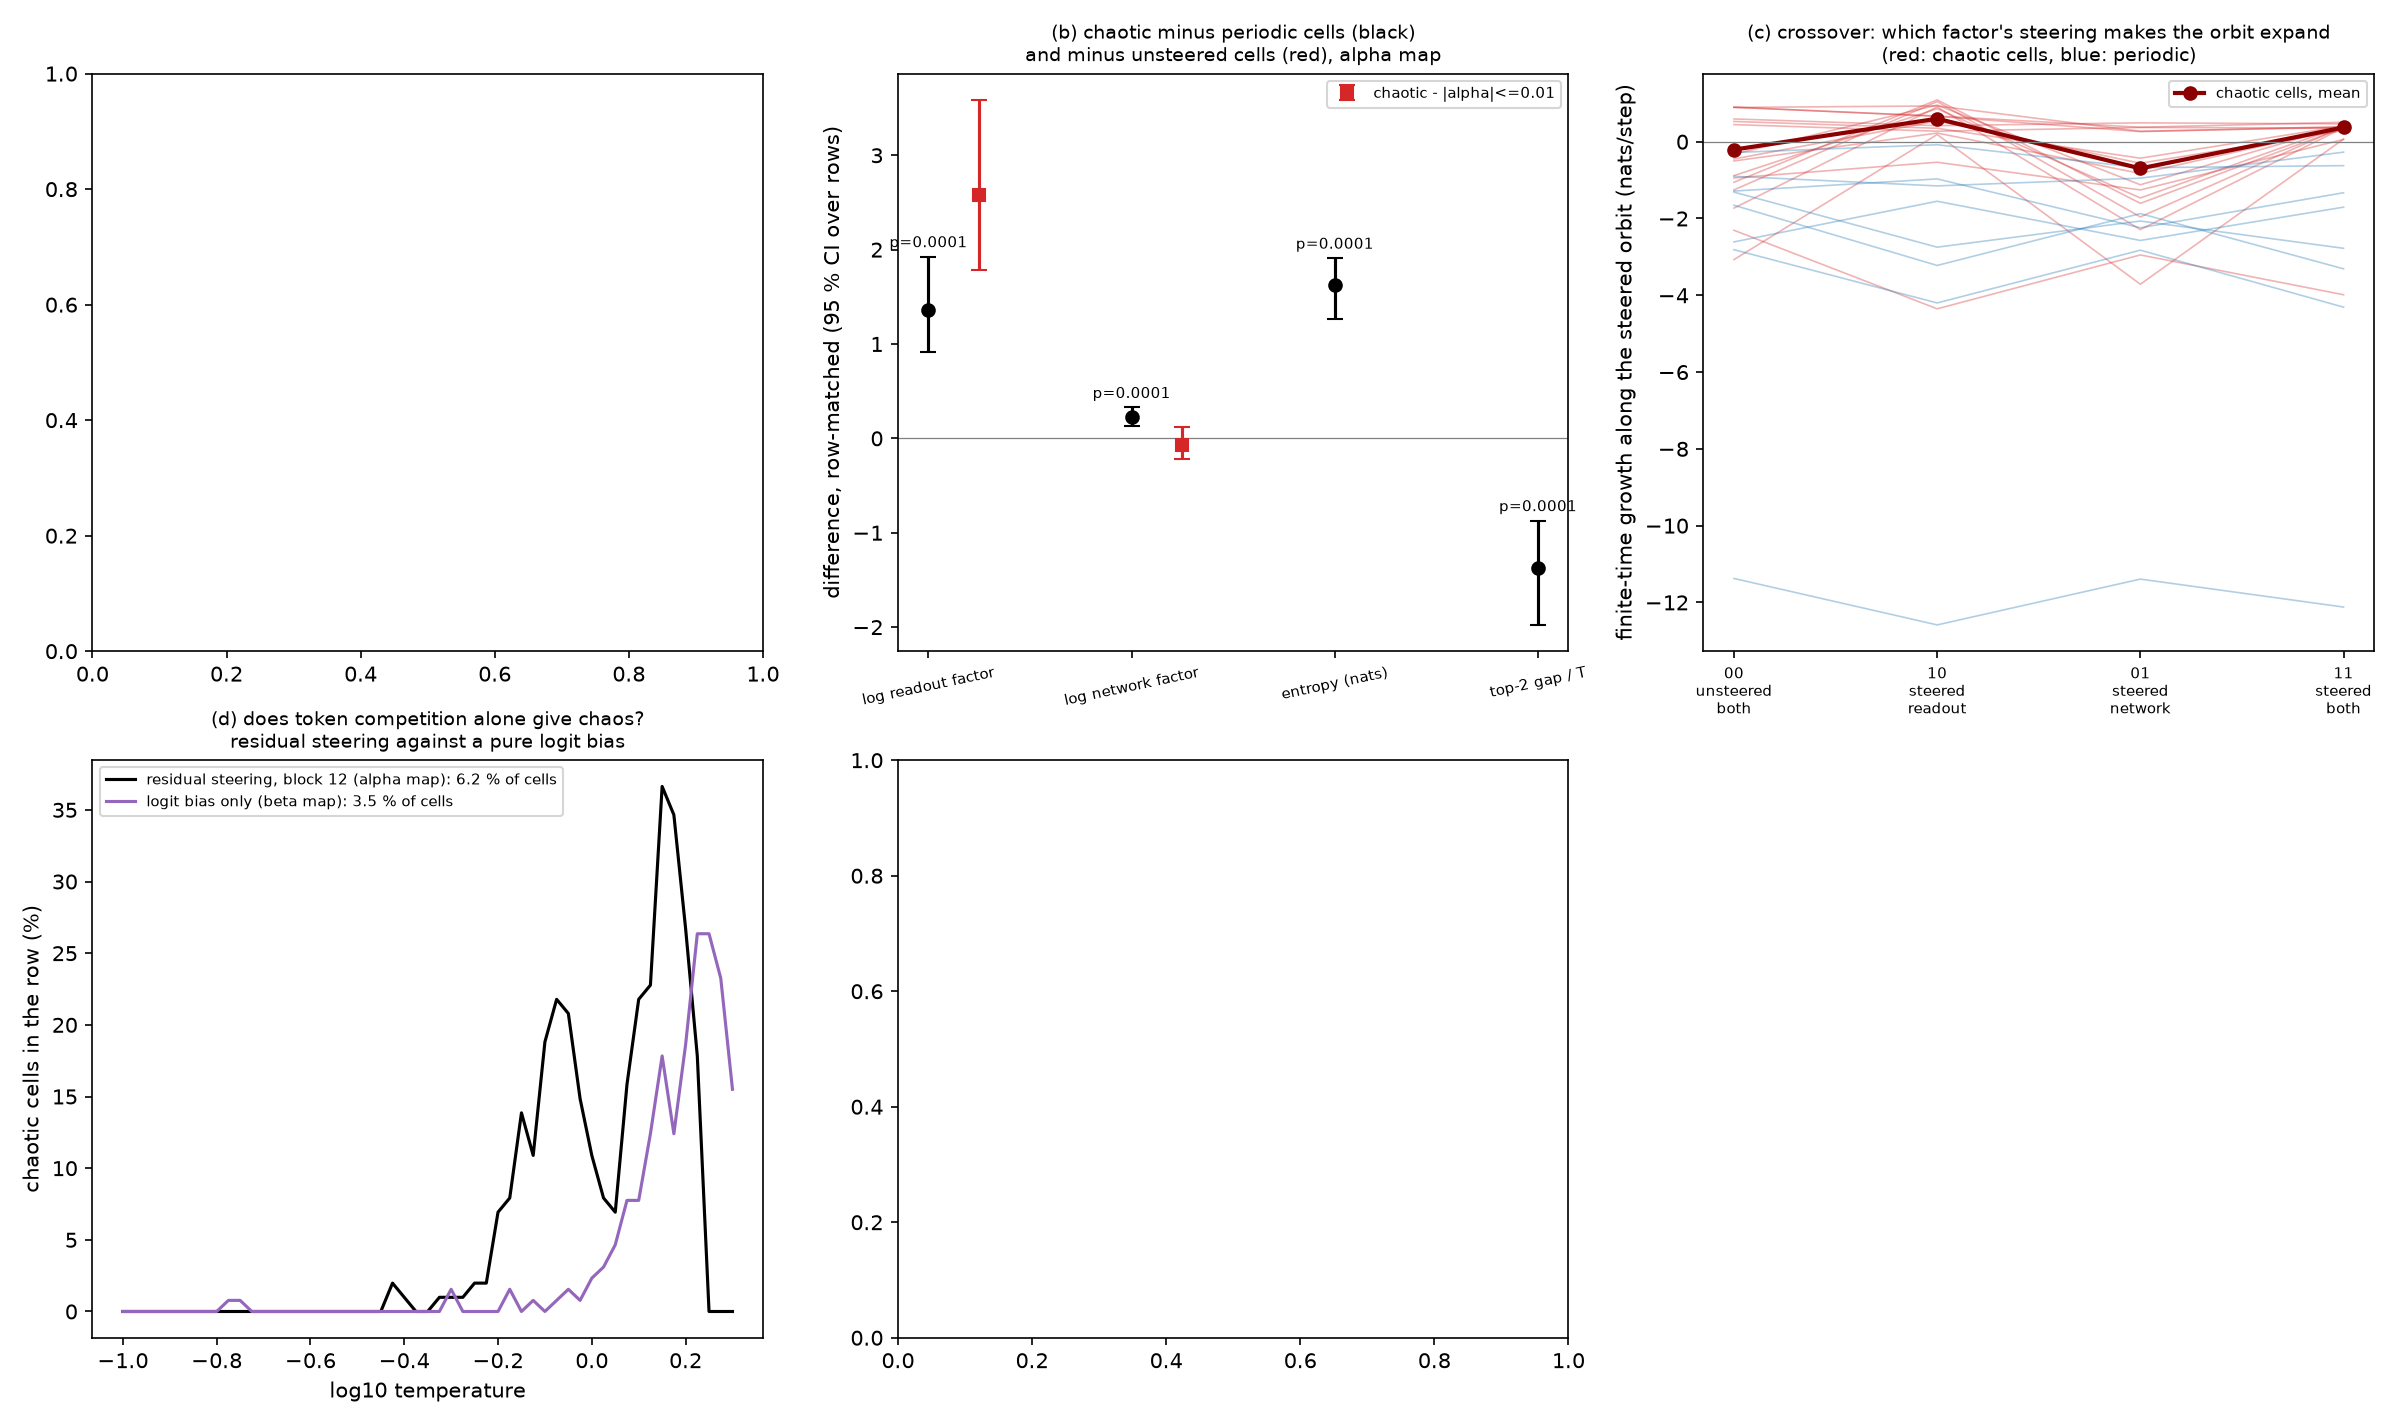
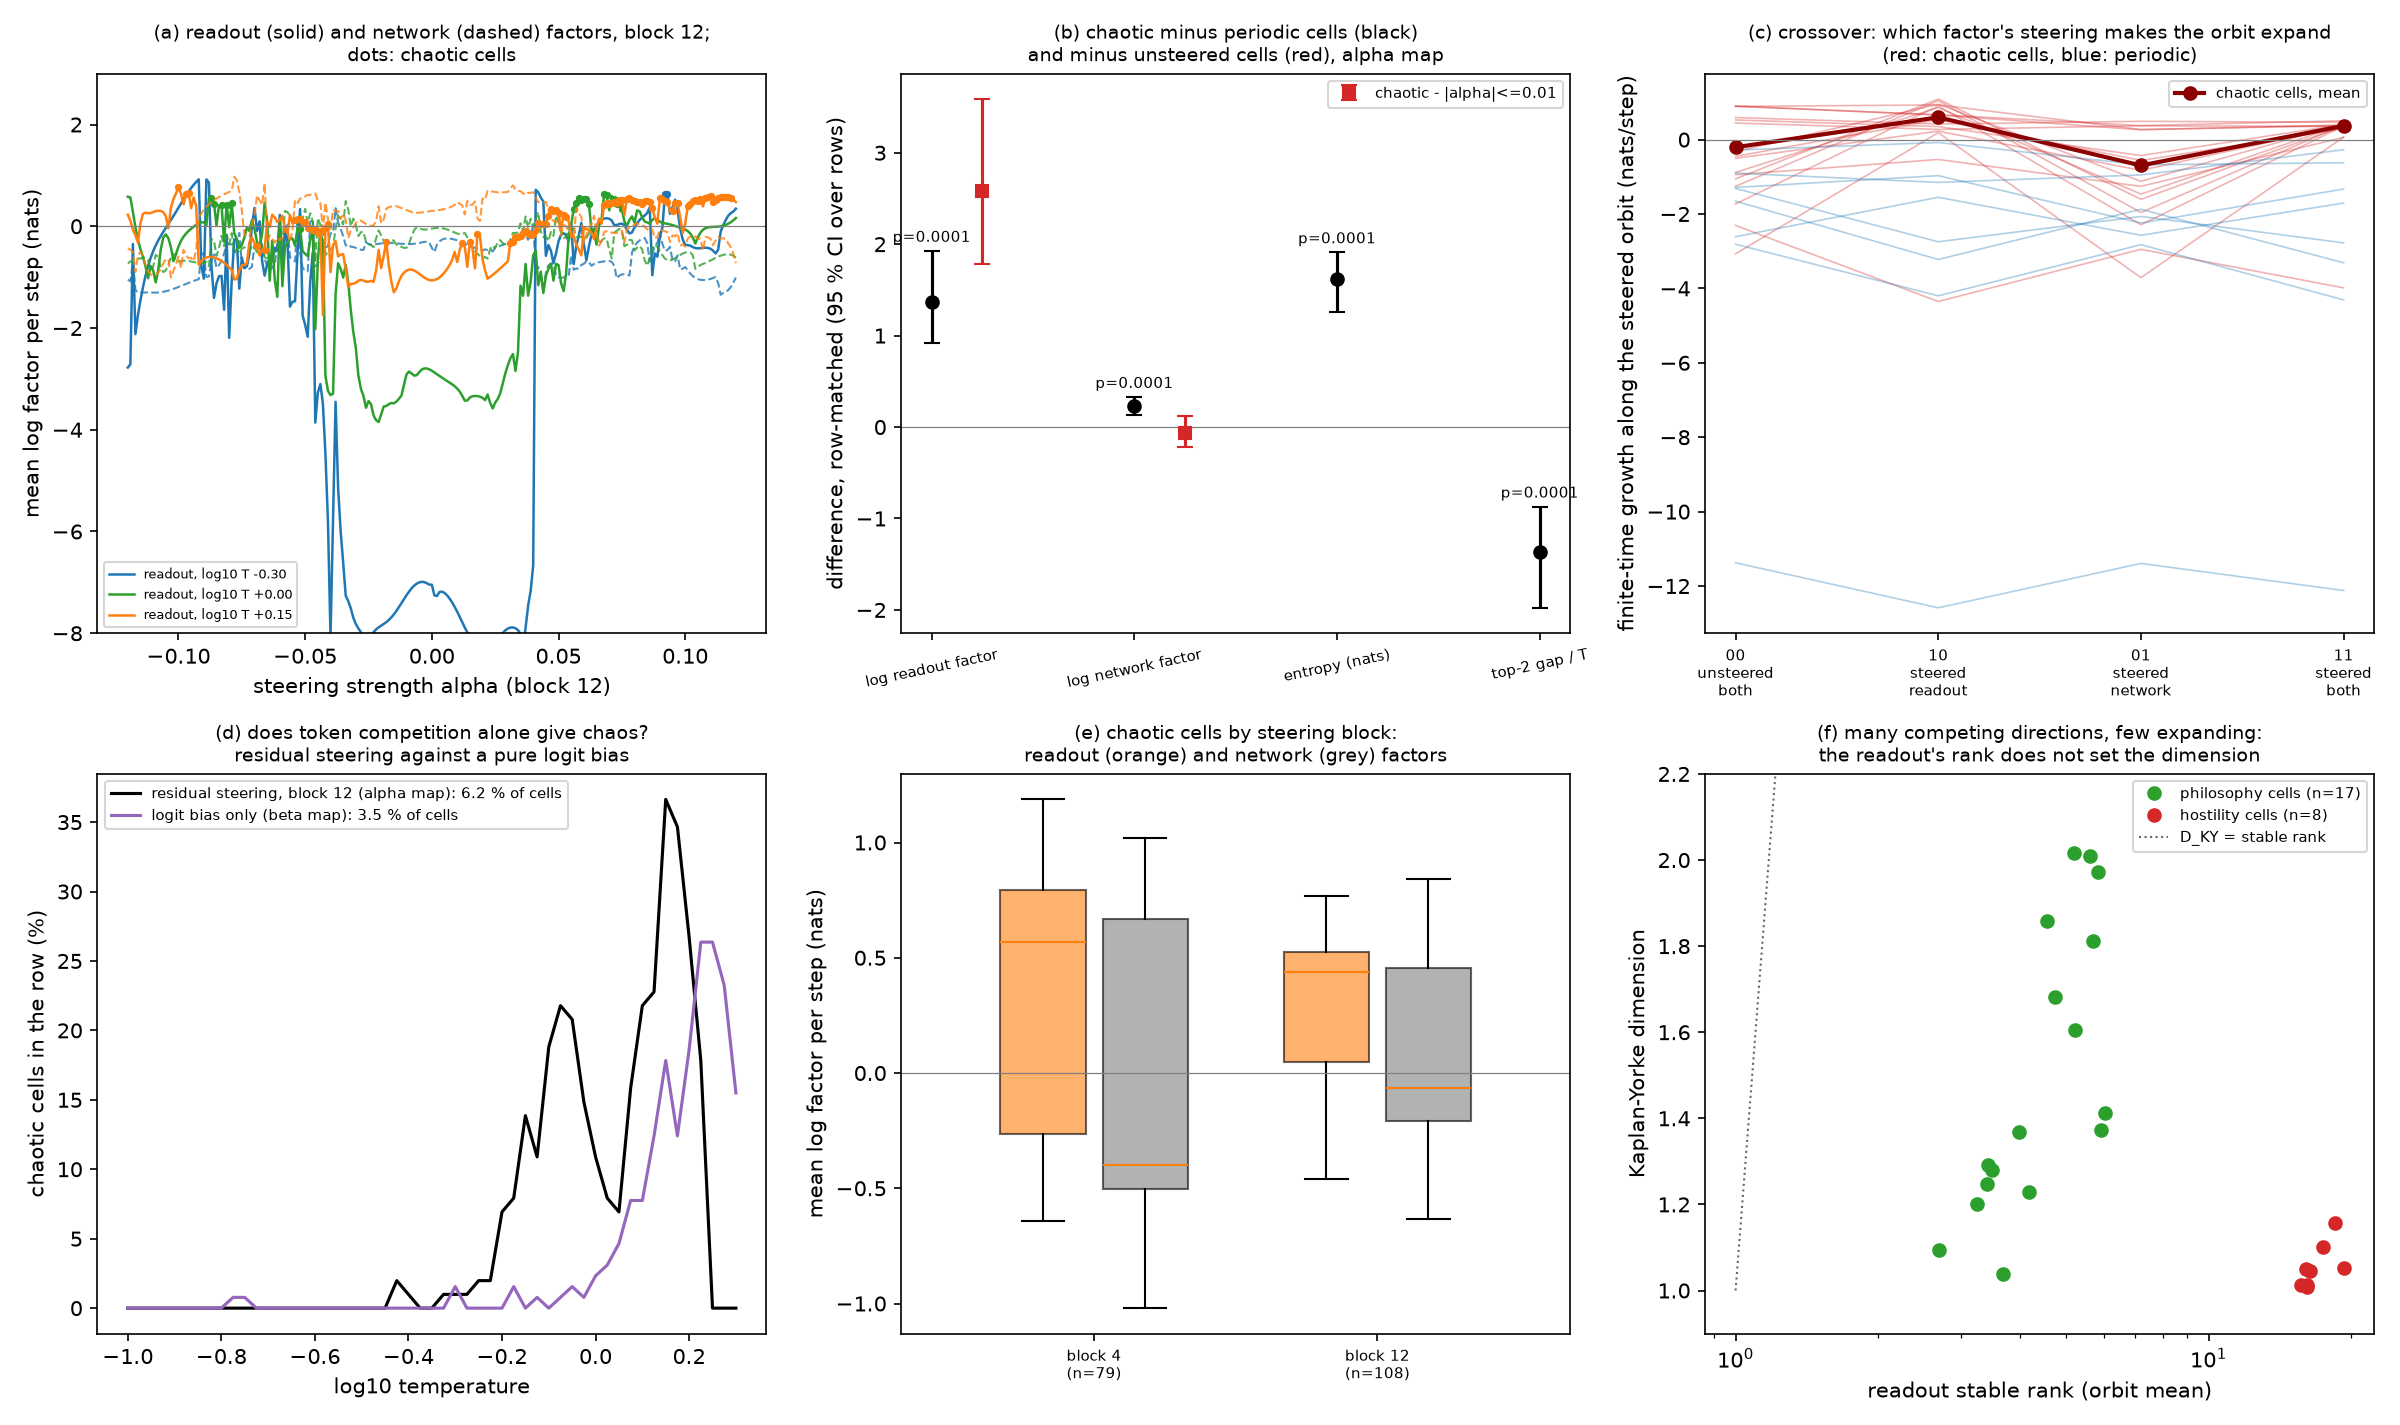
fig-mechanism: clearer panel (a), new panel (f) KY dimension vs readout stable rank; caption

diff --git a/tools/plot_mechanism.py b/tools/plot_mechanism.py
@@ -10,7 +10,8 @@ Panels (each drawn when its data exist):
   (b) chaotic minus periodic, row-matched, on the alpha map: factors, entropy, gap;
   (c) crossover arms per held-out chaotic cell and periodic control;
   (d) chaotic share per temperature: residual steering (alpha map) against the logit bias (beta map);
-  (e) the two factors of chaotic cells by steering block.
+  (e) the two factors of chaotic cells by steering block;
+  (f) Kaplan-Yorke dimension against the readout's stable rank at the KY cells (mech/ky-*, hidden/spectrum-ky-*).
 Statistics go to paper/llm/figures/fig-mechanism.json: per-row differences with bootstrap intervals over rows,
 row-stratified permutation tests, crossover contrasts with bootstrap intervals over held-out cells.
 
@@ -101,19 +102,19 @@ def main():
     ax = axes[0]
     if lines[12]:
         L = arrays(lines[12])
-        for t, col in zip((-0.6, -0.3, 0.0, 0.15, 0.25), ("tab:blue", "tab:cyan", "tab:green", "tab:orange", "tab:red")):
+        for t, col in zip((-0.3, 0.0, 0.15), ("tab:blue", "tab:green", "tab:orange")):
             m = np.isclose(L["log10_temperature"], t)
             o = np.argsort(L["alpha"][m])
             a = L["alpha"][m][o]
             ax.plot(a, L["mean_log_g_read"][m][o], "-", color=col, lw=1.2, label=f"readout, log10 T {t:+.2f}")
-            ax.plot(a, L["mean_log_g_net"][m][o], ":", color=col, lw=1.0)
+            ax.plot(a, L["mean_log_g_net"][m][o], "--", color=col, lw=1.0, alpha=0.8)
             c = L["chaotic"][m][o]
             ax.plot(a[c], L["mean_log_g_read"][m][o][c], "o", color=col, ms=2.5)
         ax.axhline(0, color="0.5", lw=0.6)
         ax.set_ylim(-8, 3)
         ax.set_xlabel("steering strength alpha (block 12)")
         ax.set_ylabel("mean log factor per step (nats)")
-        ax.set_title("(a) readout (solid) and network (dotted) factors;\ndots: chaotic cells", fontsize=9)
+        ax.set_title("(a) readout (solid) and network (dashed) factors, block 12;\ndots: chaotic cells", fontsize=9)
         ax.legend(fontsize=6, loc="lower left")
     # (b) chaotic minus periodic on the alpha map
     ax = axes[1]
@@ -220,7 +221,45 @@ def main():
         ax.axhline(0, color="0.5", lw=0.6)
         ax.set_ylabel("mean log factor per step (nats)")
         ax.set_title("(e) chaotic cells by steering block:\nreadout (orange) and network (grey) factors", fontsize=9)
-    axes[5].axis("off")
+    ax = axes[5]
+    H = DATA / "hidden"
+    pts = []
+    for grp, run, col in (("philosophy", "ky-phil", "tab:green"), ("hostility", "ky-host", "tab:red")):
+        f, g = H / f"spectrum-ky-{grp}" / "lyapunov-spectrum.json", DATA / "mech" / run / "gain.json"
+        if not (f.exists() and g.exists()):
+            continue
+        spec = json.loads(f.read_text())["cells"]
+        mech = json.loads(g.read_text())["cells"]
+        xs, ys = [], []
+        for c in spec:
+            lam = sorted(c["exponents"], reverse=True)
+            acc, j = 0.0, 0
+            for i, l in enumerate(lam):
+                if acc + l < 0:
+                    break
+                acc += l
+                j = i + 1
+            if j == 0 or j >= len(lam):
+                continue
+            m = min(mech, key=lambda x: abs(x["log10_temperature"] - c["log10_temperature"]) + abs(x["alpha"] - c["alpha"]))
+            if abs(m["log10_temperature"] - c["log10_temperature"]) + abs(m["alpha"] - c["alpha"]) > 1e-9:
+                continue
+            xs.append(m["mean_stable_rank"])
+            ys.append(j + acc / abs(lam[j]))
+        if xs:
+            ax.plot(xs, ys, "o", color=col, label=f"{grp} cells (n={len(xs)})")
+            pts += list(zip(xs, ys))
+    if pts:
+        mx = max(x for x, _ in pts)
+        ax.plot([1, mx], [1, mx], ":", color="0.4", lw=1, label="D_KY = stable rank")
+        ax.set_xscale("log")
+        ax.set_ylim(0.9, 2.2)
+        ax.set_xlabel("readout stable rank (orbit mean)")
+        ax.set_ylabel("Kaplan-Yorke dimension")
+        ax.set_title("(f) many competing directions, few expanding:\nthe readout's rank does not set the dimension", fontsize=9)
+        ax.legend(fontsize=7)
+    else:
+        ax.axis("off")
     fig.tight_layout()
     fig.savefig(args.out)
     Path(args.out).with_suffix(".json").write_text(json.dumps(stats, indent=1))

diff --git a/paper/llm/main.tex b/paper/llm/main.tex
@@ -422,7 +422,8 @@ permutation $p$-values. (c) Orbit-preserving crossover: finite-time growth along
 readout and the network Jacobian are taken from the unsteered (0) or steered (1) model; red, chaotic cells; blue,
 periodic cells; dark red, the mean over held-out chaotic cells. (d) Share of chaotic cells per temperature under
 residual steering at block 12 and under a pure logit bias along $Wv$. (e) The two factors of the chaotic cells by
-steering block.}
+steering block. (f) Kaplan--Yorke dimension against the readout's stable rank at the chaotic cells of the dimension
+measurement (Section~\ref{sec:theory}); dotted, equality.}
 \label{fig:mechanism}
 \end{figure}
 \begin{table}[!htb]
